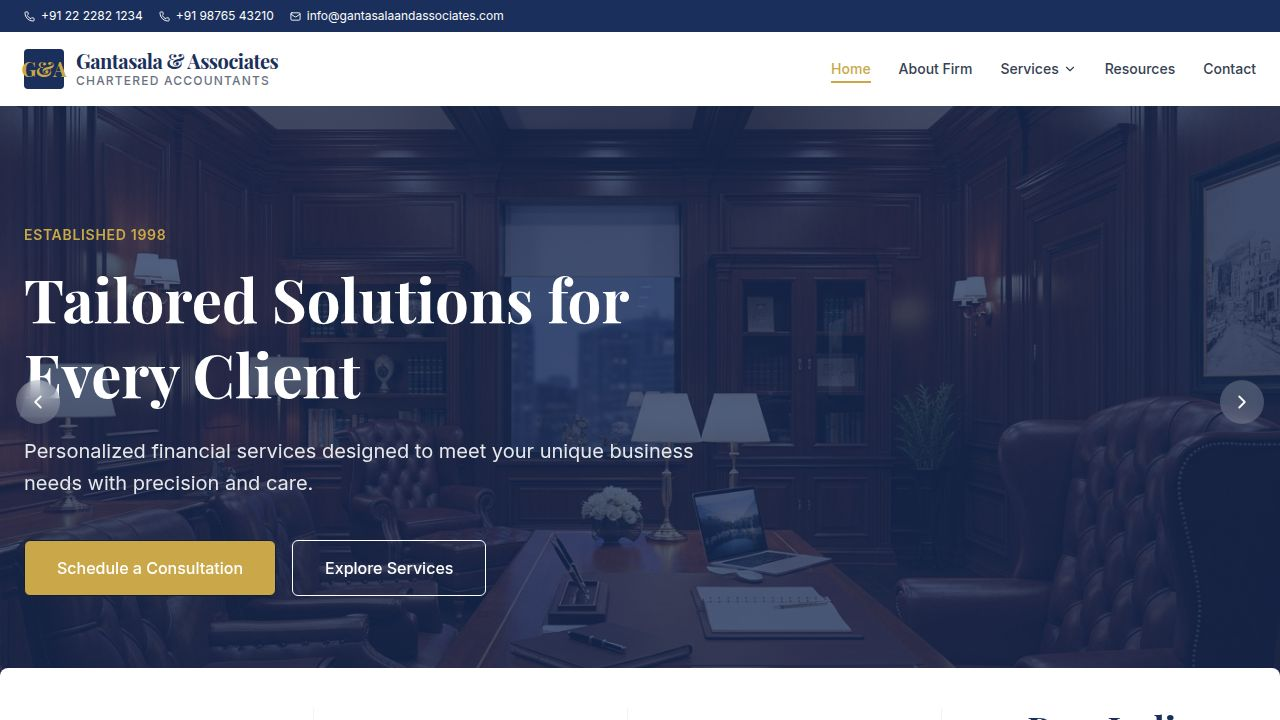
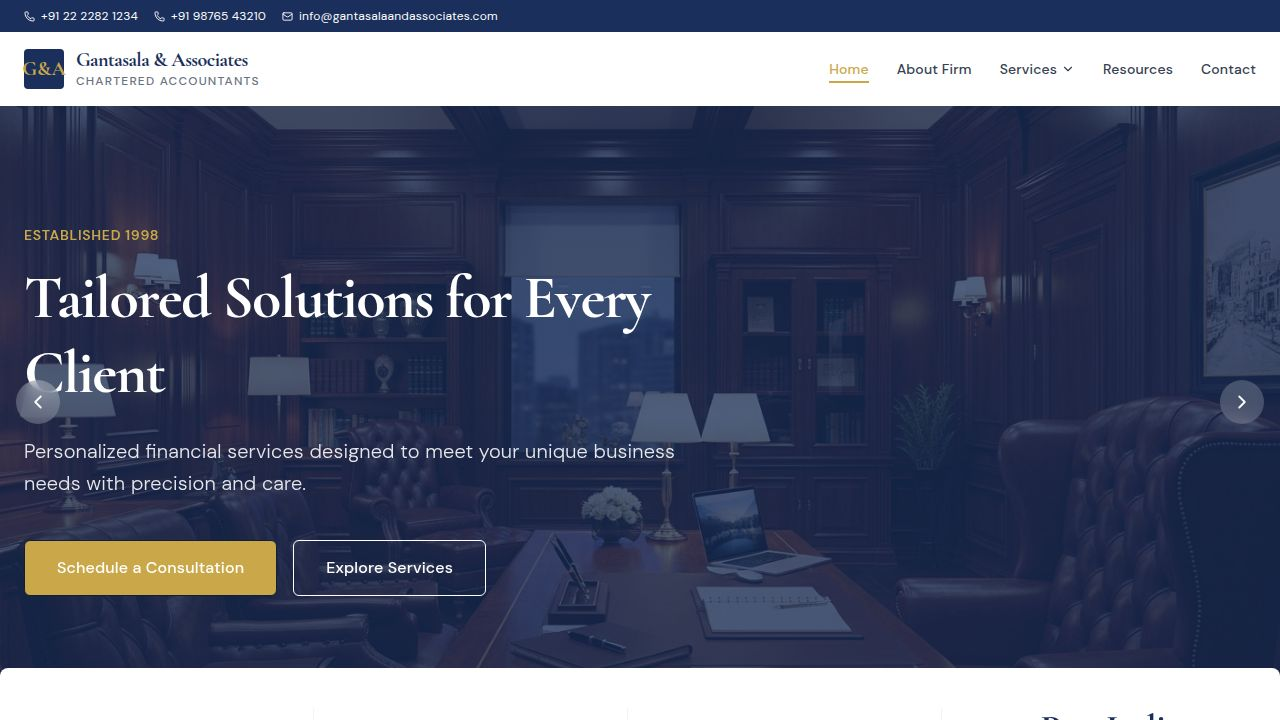
Refine website typography with elegant serif headings and clean sans-serif body text
Update Google Fonts import to Cormorant Garamond and DM Sans, adjust CSS variables, and refine global typography settings for improved readability and professional appearance.

Replit-Commit-Author: Agent
Replit-Commit-Session-Id: cf683528-a829-4ffc-9bcf-5a6ee81fccb9
Replit-Commit-Checkpoint-Type: full_checkpoint
Replit-Commit-Event-Id: 892fb0ca-c864-440c-b0ab-8ace01f9e98b
Replit-Commit-Screenshot-Url: https://storage.googleapis.com/screenshot-production-us-central1/5cc16e34-eff9-4c76-86fa-6e89ddbab651/cf683528-a829-4ffc-9bcf-5a6ee81fccb9/0hbx5IM
Replit-Helium-Checkpoint-Created: true

diff --git a/artifacts/ca-firm/src/index.css b/artifacts/ca-firm/src/index.css
@@ -1,4 +1,3 @@
-@import url('https://fonts.googleapis.com/css2?family=Playfair+Display:wght@400;500;600;700&family=Inter:wght@400;500;600;700&display=swap');
 @import "tailwindcss";
 @import "tw-animate-css";
 @plugin "@tailwindcss/typography";
@@ -107,8 +106,8 @@
   --chart-4: 43 74% 66%;
   --chart-5: 27 87% 67%;
 
-  --app-font-sans: 'Inter', sans-serif;
-  --app-font-serif: 'Playfair Display', serif;
+  --app-font-sans: 'DM Sans', sans-serif;
+  --app-font-serif: 'Cormorant Garamond', serif;
   --app-font-mono: Menlo, monospace;
   
   --radius: .5rem;
@@ -137,12 +136,52 @@
   }
   html {
     scroll-behavior: smooth;
+    font-size: 16px;
+    -webkit-text-size-adjust: 100%;
   }
   body {
     @apply font-sans antialiased bg-background text-foreground;
+    font-size: 1rem;
+    line-height: 1.75;
+    letter-spacing: 0.01em;
+    font-feature-settings: "kern" 1, "liga" 1, "calt" 1;
+    text-rendering: optimizeLegibility;
+    -webkit-font-smoothing: antialiased;
+    -moz-osx-font-smoothing: grayscale;
   }
+
   h1, h2, h3, h4, h5, h6 {
     @apply font-serif;
+    font-feature-settings: "kern" 1, "liga" 1;
+    text-rendering: optimizeLegibility;
+    line-height: 1.15;
+  }
+
+  h1 {
+    font-weight: 700;
+    letter-spacing: -0.025em;
+  }
+  h2 {
+    font-weight: 600;
+    letter-spacing: -0.02em;
+  }
+  h3 {
+    font-weight: 600;
+    letter-spacing: -0.01em;
+    line-height: 1.25;
+  }
+  h4, h5, h6 {
+    font-weight: 600;
+    letter-spacing: 0;
+    line-height: 1.35;
+  }
+
+  p {
+    line-height: 1.75;
+  }
+
+  strong {
+    font-weight: 600;
   }
 }
 

diff --git a/artifacts/ca-firm/index.html b/artifacts/ca-firm/index.html
@@ -30,7 +30,7 @@
     <!-- Fonts -->
     <link rel="preconnect" href="https://fonts.googleapis.com" />
     <link rel="preconnect" href="https://fonts.gstatic.com" crossorigin />
-    <link href="https://fonts.googleapis.com/css2?family=Playfair+Display:wght@400;600;700;800&family=Inter:wght@300;400;500;600;700&display=swap" rel="stylesheet" />
+    <link href="https://fonts.googleapis.com/css2?family=Cormorant+Garamond:ital,wght@0,300;0,400;0,600;0,700;1,400;1,600&family=DM+Sans:ital,opsz,wght@0,9..40,300;0,9..40,400;0,9..40,500;0,9..40,600;0,9..40,700;1,9..40,400&display=swap" rel="stylesheet" />
   </head>
   <body>
     <div id="root"></div>
